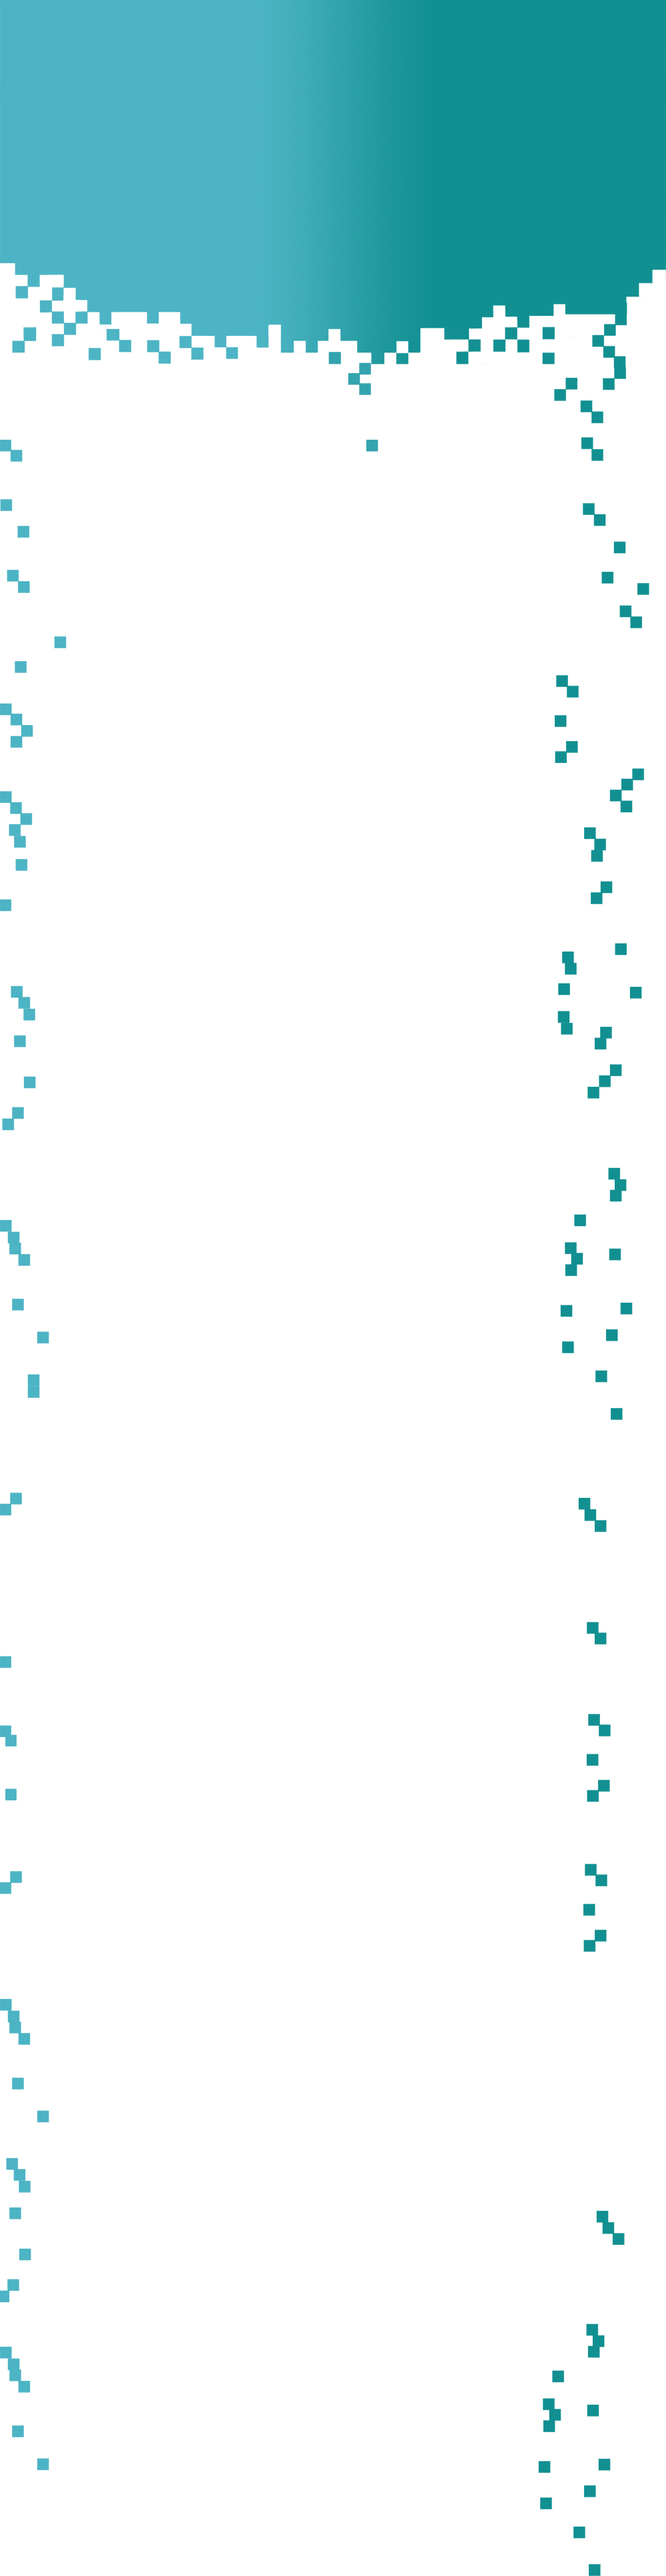
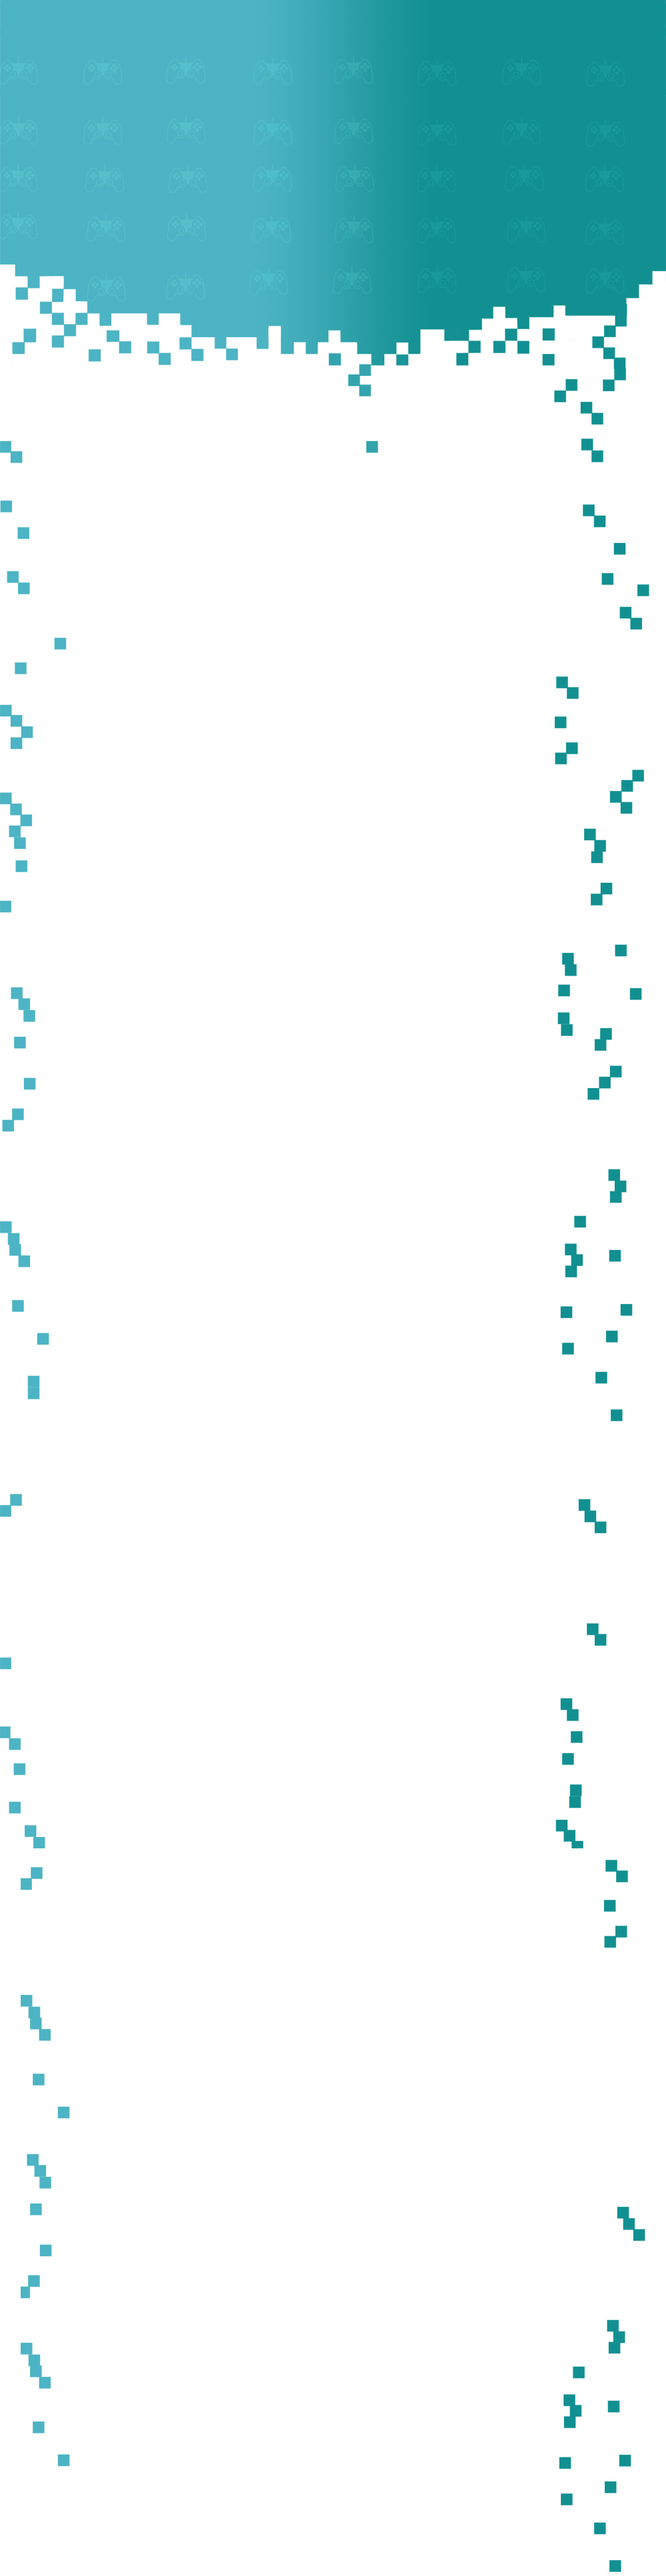
Mobile view fixes

diff --git a/css/styles.css b/css/styles.css
@@ -48,7 +48,7 @@ nav ul li a {
   transition: all 0.2s ease;
 }
 nav ul li a:hover {
-  color: #34495E;
+  color: #c5c7c7;
 }
 a.active {
   border-bottom: 2px solid #ecf0f1;
@@ -108,6 +108,11 @@ h1 {
   height: 708px;
  /* background-image: url(../img/header-bg.png);*/
   text-align: center;
+}
+
+
+.content > p {
+  color: #fff;
 }
 
 .content {
@@ -627,6 +632,13 @@ body {
 
 
 @media screen and (max-width: 480px){
+  body {
+    background-image: url(../img/background-xs.png);
+  }
+
+  h1 {
+    font-size: 1.5em;
+  }
   #checkpoint {
     content: url("../img/checkpoint-sm.png");
   }
@@ -641,5 +653,16 @@ body {
 
   .event-text {
     font-size: 13px;
+  }
+
+  #pn {
+    content: url("../img/PN-sm.png");
+  }
+}
+
+
+@media screen and (max-width: 390px){
+  #checkpoint {
+    content: url("../img/checkpoint-xs.png");
   }
 }

diff --git a/index.html b/index.html
@@ -204,7 +204,7 @@
                         </p>
                     </div>
                     <div class="col-6">
-                            <img src="img/PN.png">
+                            <img id="pn" src="img/PN.png">
                     </div>
                 </div>
         </section>
